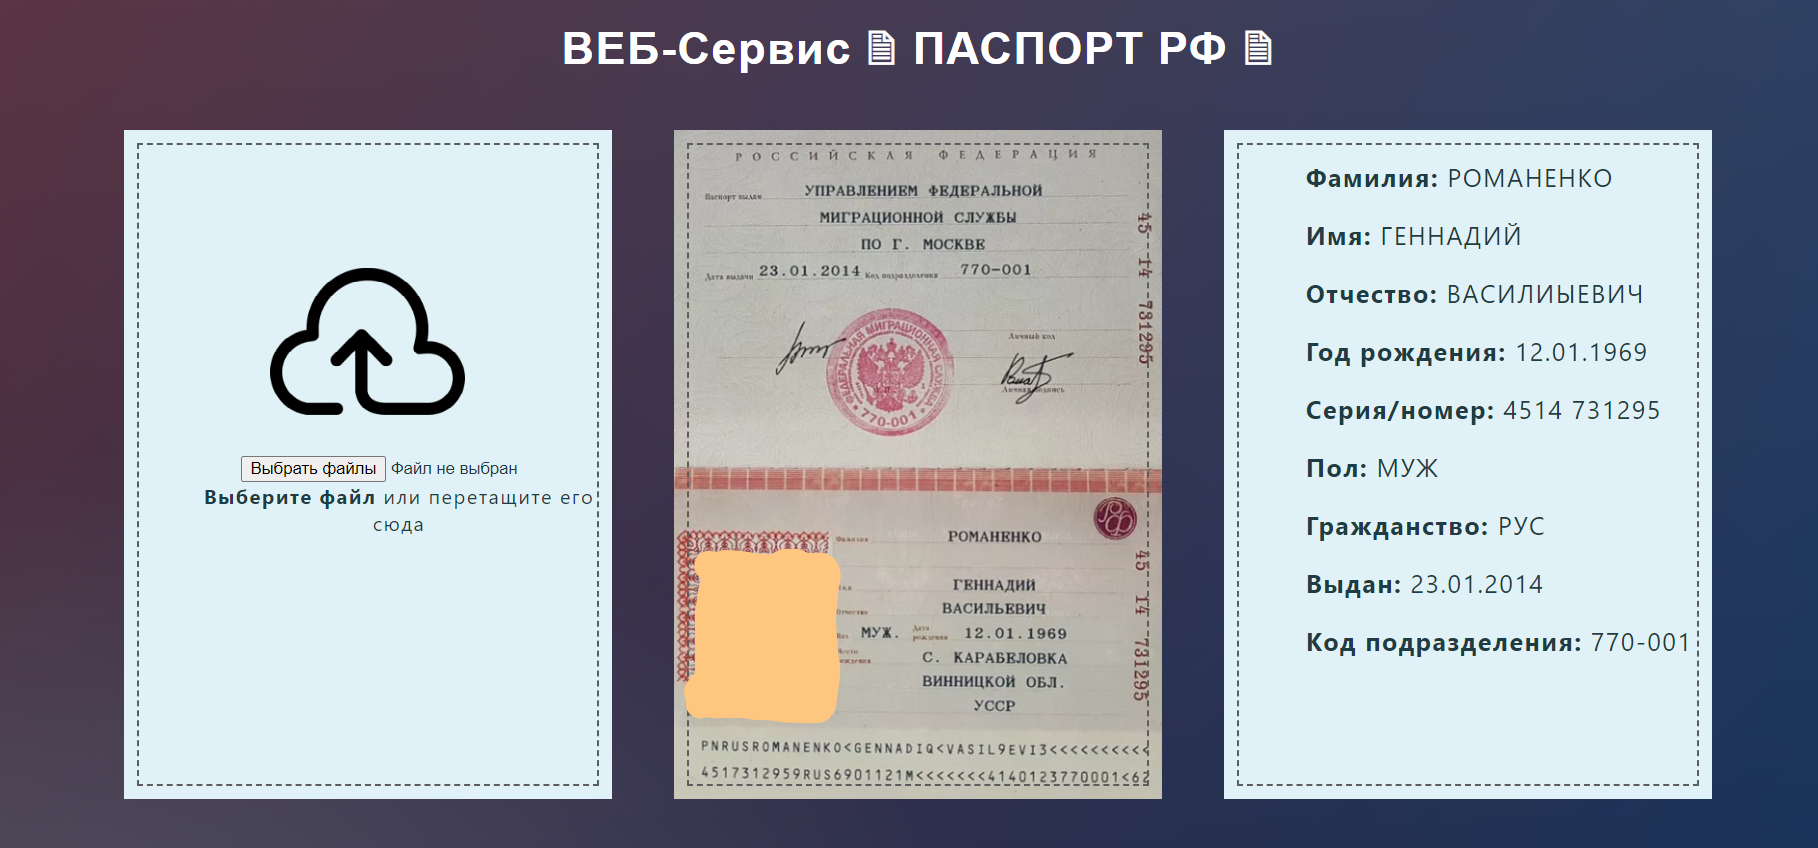
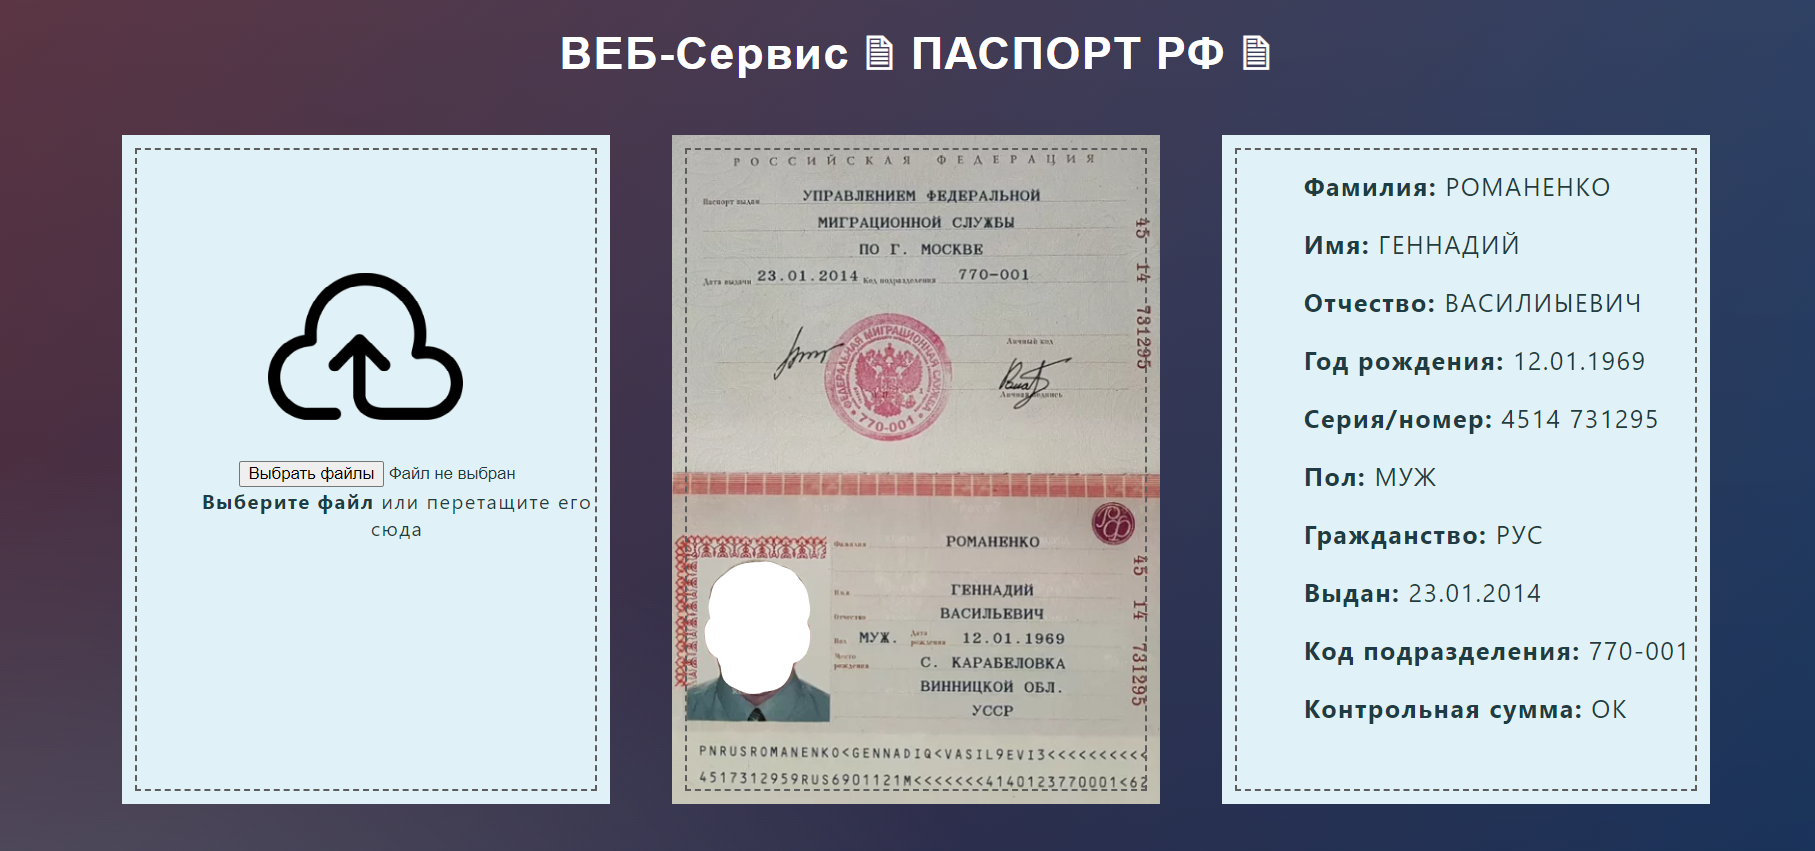
feat(ocr): Add checksum

diff --git a/static/css/style.css b/static/css/style.css
@@ -15,11 +15,34 @@ body {
 	font-size: 18px;
 	text-align:center;
 	letter-spacing:1.2px;
-	background: -moz-radial-gradient(0% 100%, ellipse cover, rgba(104,128,138,.4) 10%,rgba(138,114,76,0) 40%),-moz-linear-gradient(top,  rgba(57,173,219,.25) 0%, rgba(42,60,87,.4) 100%), -moz-linear-gradient(-45deg,  #670d10 0%, #092756 100%);
-	background: -webkit-radial-gradient(0% 100%, ellipse cover, rgba(104,128,138,.4) 10%,rgba(138,114,76,0) 40%), -webkit-linear-gradient(top,  rgba(57,173,219,.25) 0%,rgba(42,60,87,.4) 100%), -webkit-linear-gradient(-45deg,  #670d10 0%,#092756 100%);
-	background: -o-radial-gradient(0% 100%, ellipse cover, rgba(104,128,138,.4) 10%,rgba(138,114,76,0) 40%), -o-linear-gradient(top,  rgba(57,173,219,.25) 0%,rgba(42,60,87,.4) 100%), -o-linear-gradient(-45deg,  #670d10 0%,#092756 100%);
-	background: -ms-radial-gradient(0% 100%, ellipse cover, rgba(104,128,138,.4) 10%,rgba(138,114,76,0) 40%), -ms-linear-gradient(top,  rgba(57,173,219,.25) 0%,rgba(42,60,87,.4) 100%), -ms-linear-gradient(-45deg,  #670d10 0%,#092756 100%);
-	background: -webkit-radial-gradient(0% 100%, ellipse cover, rgba(104,128,138,.4) 10%,rgba(138,114,76,0) 40%), linear-gradient(to bottom,  rgba(57,173,219,.25) 0%,rgba(42,60,87,.4) 100%), linear-gradient(135deg,  #670d10 0%,#092756 100%);
+	background: -moz-radial-gradient(
+        0% 100%, ellipse cover, 
+        rgba(104,128,138,.4) 10%,
+        rgba(138,114,76,0) 40%),
+        -moz-linear-gradient(
+            top,  rgba(57,173,219,.25) 0%, 
+            rgba(42,60,87,.4) 100%), 
+            -moz-linear-gradient(-45deg,  #670d10 0%, #092756 100%
+        );
+	background: -webkit-radial-gradient(
+        0% 100%, ellipse cover, 
+        rgba(104,128,138,.4) 10%,rgba(138,114,76,0) 40%), 
+        -webkit-linear-gradient(
+            top,  rgba(57,173,219,.25) 0%,rgba(42,60,87,.4) 100%), 
+        -webkit-linear-gradient(-45deg,  #670d10 0%,#092756 100%);
+	background: -o-radial-gradient(
+        0% 100%, ellipse cover, rgba(104,128,138,.4) 10%,
+        rgba(138,114,76,0) 40%), -o-linear-gradient(
+            top,  rgba(57,173,219,.25) 0%,rgba(42,60,87,.4) 100%), 
+        -o-linear-gradient(-45deg,  #670d10 0%,#092756 100%);
+	background: -ms-radial-gradient(
+        0% 100%, ellipse cover, rgba(104,128,138,.4) 10%,rgba(138,114,76,0) 40%), 
+        -ms-linear-gradient(top,  rgba(57,173,219,.25) 0%,rgba(42,60,87,.4) 100%), 
+        -ms-linear-gradient(-45deg,  #670d10 0%,#092756 100%);
+	background: -webkit-radial-gradient(
+        0% 100%, ellipse cover, rgba(104,128,138,.4) 10%,rgba(138,114,76,0) 40%), 
+        linear-gradient(to bottom,  rgba(57,173,219,.25) 0%,rgba(42,60,87,.4) 100%), 
+        linear-gradient(135deg,  #670d10 0%,#092756 100%);
 	filter: progid:DXImageTransform.Microsoft.gradient( startColorstr='#3E1D6D', endColorstr='#092756',GradientType=1 );
 }
 

diff --git a/templates/index.html b/templates/index.html
@@ -38,6 +38,8 @@
     <div class="block">
         <form id="export-container" action="send.php">
             <div align="left">
+                <br>
+                <br>
                 <p><b>Фамилия:</b> {{ surname }} </p>
                 <p><b>Имя:</b> {{ name }} </p>
                 <p><b>Отчество:</b> {{ second }} </p>
@@ -47,6 +49,7 @@
                 <p><b>Гражданство:</b> {{ ctz }} </p>
                 <p><b>Выдан:</b> {{ release }} </p>
                 <p><b>Код подразделения:</b> {{ code }} </p>
+                <p><b>Контрольная сумма:</b> {{ fcs }} </p>
             </div>
         </form>
     </div>

diff --git a/pasportocr.py b/pasportocr.py
@@ -156,10 +156,11 @@ class PasportOCR:
         mrzText = mrzText.split()
 
         # Если tesseract вначале добавил лишние символы - удалить
-        if mrzText[0][0:1] != 'P':
+        if len(mrzText[0]) < 40:
             del mrzText[0]
 
         # Проверка числа символов
+        print("MRZ:", mrzText)
         print("Символов в первой строке:", len(mrzText[0]))
         print("Символов во второй строке:", len(mrzText[1]))
 
@@ -200,7 +201,7 @@ class PasportOCR:
         
         # Транслитерация гражданства
         citizen = ""
-        print("MRZ:", mrzText)
+
         for i in mrzText[1][10:13]:
             citizen_element_eng = eng.index(i)
             citizen_element_ru = rus[citizen_element_eng]
@@ -228,6 +229,26 @@ class PasportOCR:
 
         # Код подразделения
         code = f"{mrzText[1][-9:-6]}-{mrzText[1][-6:-3]}"
+
+        # Проверка первой контрольной суммы (для номера и серии)
+        checksum_list: list = []
+        vesa = [7, 3, 1, 7, 3, 1, 7, 3, 1]
+        series_number = mrzText[1][0:9]
+        
+        # Результат умножения серии и номера на веса
+        for num in range(len(vesa)):
+            checksum_list.append(int(vesa[num]) * int(series_number[num]))
+
+        first_check_sum = sum(checksum_list)
+        first_check_number = str(first_check_sum)[-1:]
+        first_mrz_number = mrzText[1][9:10]
+
+        if int(first_check_number) == int(first_mrz_number):
+            first_check = "OK"
+        else:
+            first_check = "ОШ"
+
+        print("Контрольный список", first_check)
         
         pasdata = {
             'SRN': surname, 
@@ -240,6 +261,7 @@ class PasportOCR:
             'CTZ': citizen,
             'RLS': release,
             'COD': code,
+            'FCS': first_check,
         }
             
         return pasdata

diff --git a/app.py b/app.py
@@ -25,6 +25,7 @@ def predict():
         ctz=pasport_data["CTZ"],
         release=pasport_data["RLS"],
         code=pasport_data["COD"],
+        fcs=pasport_data["FCS"],
     )
 
 
